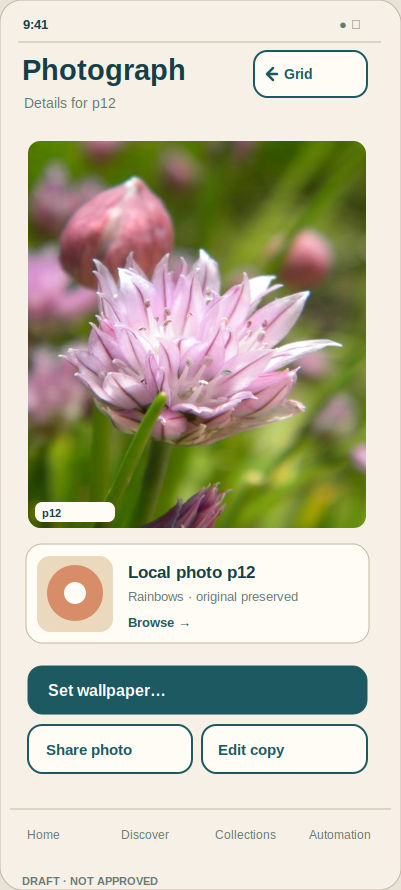
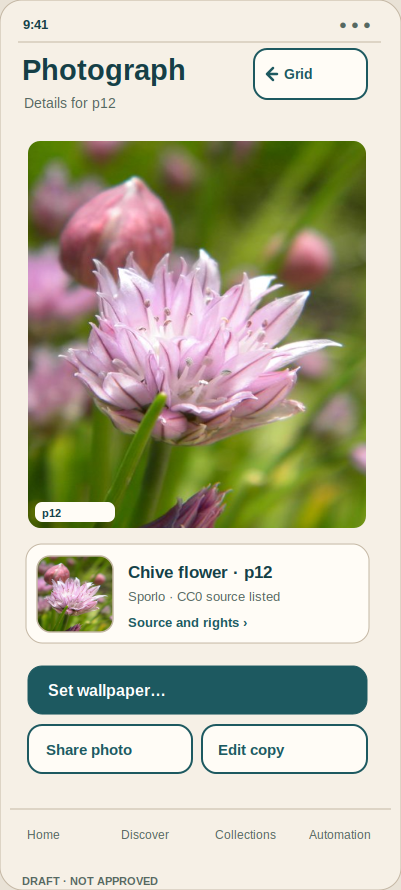
review(primary): preserve source-exact full-phone and seven-flow raster evidence

diff --git a/design/system/reviews/PRODUCTION-A-POSTMERGE-OPTICAL-2026-10-24.md b/design/system/reviews/PRODUCTION-A-POSTMERGE-OPTICAL-2026-10-24.md
@@ -1,0 +1,41 @@
+# Production A post-integration optical rescue · 2026-10-24
+
+**Status:** Draft source proposal; independently CI-rasterized at 401×890 and directly optically inspected. **Not selected, native-accepted, or owner-approved.** Changes belong to [PR #16](https://github.com/gamesbyian/Glimpse/pull/16), branched from current integration #6 after initial Production A PR #11 was integrated by non-force fast-forward. PR #6 remains draft/unmerged into main.
+
+## Real issues identified and repaired
+
+1. **Grid provenance leakage / readability:** Production C independently reviewed the six-screen contact and found tiny repeated “CC0” text on the photographed Grid. A 6× pixel re-examination confirmed p07's ID plate was **not actually clipped**, though its near-white sunflower background reduced contrast. Removed ten misleading 9px rights badges: legal/creator metadata of demonstration JPEGs must not be presented as a universal license of future user photos. All twelve immutable p06–p17 identity labels now have consistent 56×23, 1.25px teal-keylined background plates. Source details retain correct per-photo rights labels.
+2. **Photo Detail origin:** Prior source had an unrelated generic circle illustration in the source card. Replaced it with a second `<use>` of the **same embedded verified p12 photograph**, plus explicit *Chive flower · p12*, *Sporlo · CC0 source listed*, and *Source and rights* action. No second ambiguous JPEG identity.
[1 lines of base64/hex data omitted]
+4. **Fail-closed checks:** `design/system/validate-cross-surface-cc0-migration.py` now rejects the tiny photo-license badges, missing keylines / sample IDs, synthetic Detail thumbnail, incorrect credit/source/action, unverified owner/native approval flags and p12 identity drift. Source companion has exactly one embedded JPEG, while the initial six-screen set retains **27** embedded JPEGs and 13 unique independently source-hashed photographs.
+
+## Current complete source-exact 401×890 evidence
+
+[Seven-state CI contact sheet](ci-renders/cc0-consistent-seven-flow-contact.jpg) and independent [source-specific PNG](ci-renders/cc0-consistent-source-p12.png) are checked into the PR branch. I directly opened **the latest Grid, Detail, Source & Rights and full seven-phone contact pixels** after the fixes. All major content and buttons are visible at 401×890; the sample credit appears only in the correct photo-specific context, and the seven states share p12 without visual aliasing. Exact machine index: [ci-raster-ledger.json](ci-renders/ci-raster-ledger.json), Git blob `da168f2094541d32b6bfe867989340f9ce828d7e`.
+
+| State | Editable source | SVG SHA-256 | Actual PNG SHA-256 |
+| --- | --- | --- | --- |
[7 lines of base64/hex data omitted]
+
+Focused GitHub Actions [#40153858755](https://github.com/gamesbyian/Glimpse/actions/runs/40153858755) **SUCCESS** for initial Grid+Detail correction. Introducing the seventh route revealed a validator fixture text mismatch in run #40154124422 (expected truncated heading); corrected using exact committed UI copy; [#40154214861](https://github.com/gamesbyian/Glimpse/actions/runs/40154214861) **SUCCESS**. Push/PR workflow #40154296381 completed source checks, seven-state CairoSVG/Pillow render and artifact upload; this branch archives its source-indexed outputs. A subsequent action_required/no-jobs status after CI's evidence commit is a GitHub authorization status, **not proof of failed design source**. Re-run focused tests on the exact PR head if selection advances.
+
+## Independent integration acceptance still needed
+
+- **Integration #10** alone may select the original six coordinated CC0 screens atomically, update the selected source paths, reviewer/atlas SHA freeze, source proof mode and C provenance references. The supplemental p12 Source & Rights route needs a separate human IA decision; do not silently increase the selected 24-source set or assert it is implemented in native UI.
+- Native 320dp/fontScale2 and real 48dp hit regions, TalkBack, OS picker/chooser, wallpaper Home/Lock readback, source URL and focus/return are still **not** verified by these SVG/PNG pixels.
+- Photo rights come from C's uploader-described Commons metadata and verified source bytes, not a legal warranty; all thirteen photo subjects and three-vs-four-column Grid remain owner visual decisions.
+- All eight owner questions remain unanswered; `design/approved/` untouched and PR #6 unmerged.
+
+**Recommended:** independently reopen the [seven-state contact](ci-renders/cc0-consistent-seven-flow-contact.jpg) and [Grid PNG](ci-renders/cc0-consistent-grid-3column.png), verify the source/raster index at the current PR head, then merge qualified post-integration corrections to draft PR #6 (never main without human approval).
+
+## Post-contact action clarity correction (latest source)
+
+Reviewing the new 401×890 p12 Source & Rights PNG exposed a redundant navigation contract: the same external Wikimedia file-page action appeared both as a tappable list row and a primary button, and the creator row displayed an arrow without a defined destination. I removed both dead-end row chevrons; **Creator · Sporlo** and **Source: Wikimedia Commons** are now informational cards. The sole external action is **Open file page…**, alongside **Back to p12**. Metadata requires an explicit external tap and marks those rows noninteractive. Source regression validation fails on the reappearance of duplicate controls or incorrect p12 image/credits.
+
[1 lines of base64/hex data omitted]
